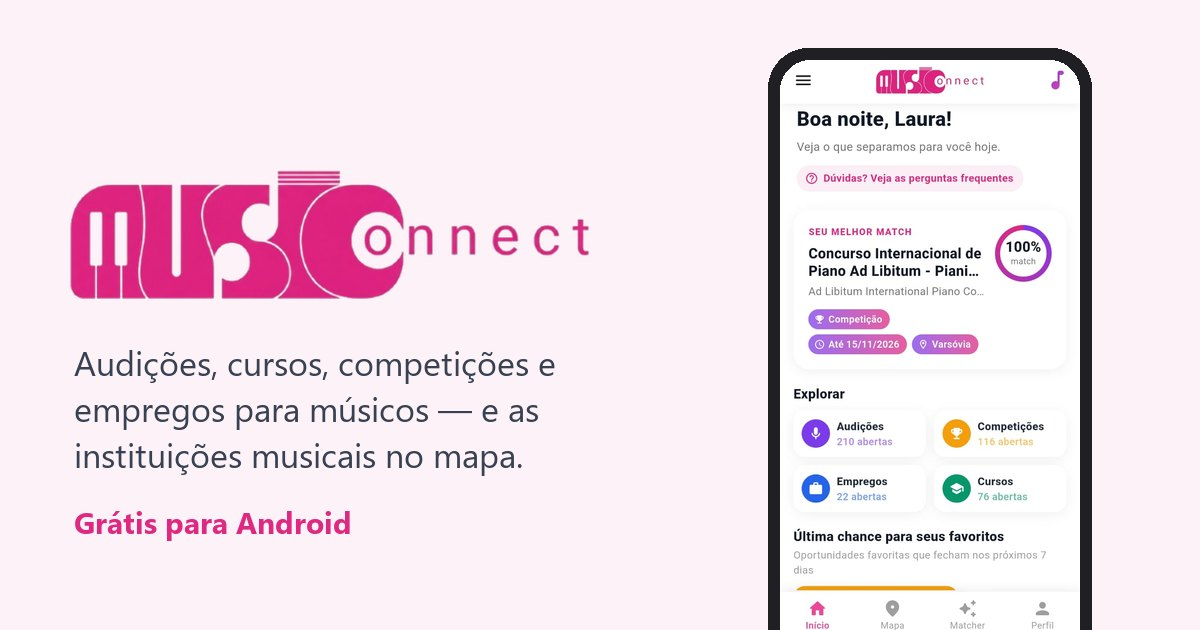
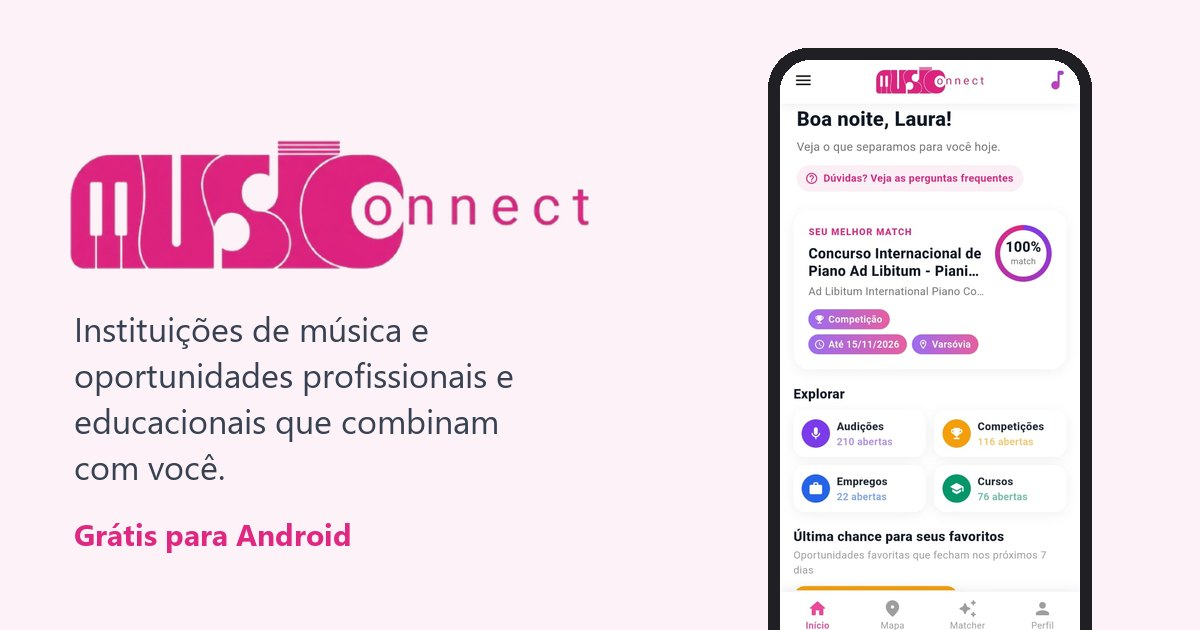
feat(site): links com acesso ao site, textos focados no músico e aviso fora do Android
- /links (QR do pôster): botão "Conheça o MusiConnect" para o site principal,
  "Baixar o app" baixa o APK direto e o rodapé fica só com a privacidade
- frase nova: "Instituições de música e oportunidades profissionais e
  educacionais que combinam com você" (links, descrição de busca e imagem
  de prévia)
- prévia ao compartilhar: descrição "Conectando músicos a oportunidades do
  mundo todo." e título da página mais descritivo
- fora do Android: no computador, QR Code para baixar pelo celular; no
  iPhone, aviso de que o app é só para Android

Changed region(s): [[0.0308, 0.2111, 0.4933, 0.4825], [0.0617, 0.5127, 0.4625, 0.7841], [0.0617, 0.8143, 0.3083, 0.8746]]

diff --git a/deploy/site/index.html b/deploy/site/index.html
@@ -3,17 +3,17 @@
 <head>
   <meta charset="utf-8">
   <meta name="viewport" content="width=device-width, initial-scale=1">
-  <title>MusiConnect — oportunidades para músicos</title>
-  <meta name="description" content="Encontre audições, competições, cursos e empregos para músicos, com o match de cada oportunidade com o seu perfil, e as instituições musicais no mapa. Grátis para Android.">
+  <title>MusiConnect — audições, competições, cursos e empregos para músicos</title>
+  <meta name="description" content="Instituições de música e oportunidades profissionais e educacionais que combinam com você: audições, competições, cursos e empregos para músicos. Grátis para Android.">
   <link rel="icon" href="/favicon.png">
   <meta name="theme-color" content="#C2185B">
   <!-- Só tema claro, como o app: impede o "modo escuro automático" do navegador -->
-  <meta name="color-scheme" content="only light">
+  <meta name="color-scheme" content="light only">
   <!-- Prévia ao compartilhar o link (WhatsApp, redes sociais) -->
   <meta property="og:type" content="website">
   <meta property="og:url" content="https://musiconnect.app.br/">
   <meta property="og:title" content="MusiConnect">
-  <meta property="og:description" content="Oportunidades para músicos — audições, cursos, competições e empregos — e as instituições musicais no mapa. Grátis para Android.">
+  <meta property="og:description" content="Conectando músicos a oportunidades do mundo todo.">
   <meta property="og:image" content="https://musiconnect.app.br/img/compartilhar.jpg">
   <meta property="og:image:width" content="1200">
   <meta property="og:image:height" content="630">
@@ -28,7 +28,7 @@
       font-display: swap;
     }
     :root {
-      color-scheme: only light;
+      color-scheme: light only;
       --pink: #C2185B;
       --pink-2: #DF2881;
       --purple: #8E24AA;
@@ -133,6 +133,15 @@
     .hero-meta a { color: var(--purple); text-decoration: none; }
     .hero-meta span, .hero-meta a { display: inline-flex; align-items: center; gap: 6px; }
     .hero-meta svg { width: 16px; height: 16px; }
+    /* Aviso para computador (com QR Code) ou iPhone */
+    .device-note {
+      display: flex; align-items: center; gap: 16px; margin-top: 24px; max-width: 480px; text-align: left;
+      background: var(--card); border-radius: 16px; padding: 14px 18px; box-shadow: var(--shadow);
+    }
+    .device-note[hidden] { display: none; }
+    .device-note img { width: 96px; height: 96px; flex: none; border-radius: 8px; }
+    .device-note p { margin: 0; font-size: 14px; line-height: 1.5; }
+    .device-note strong { color: var(--ink); }
 
     .showcase { position: relative; display: flex; justify-content: center; padding: 40px 0; text-align: left; }
     .phone {
@@ -361,6 +370,7 @@
       .hero p.intro { margin-left: auto; margin-right: auto; }
       .hero-actions, .hero-meta { justify-content: center; }
       .showcase { max-width: 460px; margin: 0 auto; }
+      .device-note { margin-left: auto; margin-right: auto; }
       .stats-grid { grid-template-columns: repeat(2, 1fr); }
       .stats { margin-top: 0; }
       .grid-3 { grid-template-columns: 1fr; max-width: 640px; margin-left: auto; margin-right: auto; }
@@ -494,6 +504,14 @@
               <svg viewBox="0 0 24 24" fill="none" stroke="currentColor" stroke-width="2" stroke-linecap="round" stroke-linejoin="round" aria-hidden="true"><path d="M12 3l7 3v6c0 4.5-3 7.5-7 9-4-1.5-7-4.5-7-9V6z"/><path d="M9 12l2 2 4-4"/></svg>
               Grátis · Android 6 ou superior · cerca de 56 MB
             </span>
+          </div>
+          <!-- Avisos para quem não está num Android (o script abaixo mostra o certo) -->
+          <div class="device-note" id="nota-computador" hidden>
+            <img src="/img/qrcode-site.svg" alt="QR Code que abre musiconnect.app.br no celular" width="96" height="96">
+            <p><strong>Está no computador?</strong> Aponte a câmera do celular para o QR Code e baixe o MusiConnect direto no Android.</p>
+          </div>
+          <div class="device-note" id="nota-iphone" hidden>
+            <p><strong>Por enquanto, o MusiConnect está disponível só para Android.</strong> A versão para iPhone ainda não existe.</p>
           </div>
         </div>
 
@@ -906,6 +924,14 @@
       });
 
       show(0);
+    })();
+
+    // Fora do Android: no iPhone avisa que ainda não há versão; no computador mostra o QR Code.
+    (function () {
+      var ua = navigator.userAgent;
+      if (/Android/i.test(ua)) return;
+      var ios = /iPhone|iPad|iPod/i.test(ua) || (/Macintosh/.test(ua) && navigator.maxTouchPoints > 1);
+      document.getElementById(ios ? "nota-iphone" : "nota-computador").hidden = false;
     })();
 
     // Menu do celular: abre e fecha a lista de seções.

diff --git a/deploy/site/links.html b/deploy/site/links.html
@@ -7,7 +7,7 @@
   <meta name="description" content="Baixe o MusiConnect, assista à demonstração e veja o código e a documentação.">
   <link rel="icon" href="/favicon.png">
   <meta name="theme-color" content="#DF2881">
-  <meta name="color-scheme" content="only light">
+  <meta name="color-scheme" content="light only">
   <meta property="og:type" content="website">
   <meta property="og:url" content="https://musiconnect.app.br/links">
   <meta property="og:title" content="MusiConnect">
@@ -56,11 +56,12 @@
   <main>
     <header>
       <h1><img src="/logo-extended.png" alt="MusiConnect"></h1>
-      <p class="tagline">Oportunidades para músicos — audições, cursos, competições e empregos — e as instituições musicais no mapa.</p>
+      <p class="tagline">Instituições de música e oportunidades profissionais e educacionais que combinam com você.</p>
     </header>
 
     <nav class="links">
-      <a class="main" href="/">Baixar o app<small>Android, gratuito</small></a>
+      <a class="main" href="https://github.com/DevLuchez/prototipo-musiconnect/releases/latest/download/musiconnect.apk">Baixar o app<small>Android, gratuito</small></a>
+      <a href="/">Conheça o MusiConnect<small>Site principal</small></a>
       <a href="https://youtu.be/NZR6LDNfiSg">Vídeo de demonstração<small>11 min, no YouTube</small></a>
       <a href="https://github.com/DevLuchez/prototipo-musiconnect">Código e documentação<small>Repositório no GitHub</small></a>
     </nav>
@@ -68,7 +69,7 @@
 
   <footer>
     Trabalho de Conclusão de Curso de Engenharia de Software — Católica SC.<br>
-    <a href="/privacidade">Política de privacidade</a> · <a href="/excluir-conta">Excluir conta</a>
+    <a href="/privacidade">Política de privacidade</a>
   </footer>
 </body>
 </html>

diff --git a/deploy/site/excluir-conta.html b/deploy/site/excluir-conta.html
@@ -6,7 +6,7 @@
   <title>Excluir conta — MusiConnect</title>
   <meta name="description" content="Como excluir a sua conta do MusiConnect e quais dados são apagados.">
   <link rel="icon" href="/favicon.png">
-  <meta name="color-scheme" content="only light">
+  <meta name="color-scheme" content="light only">
   <style>
     :root {
       --pink: #DF2881;
